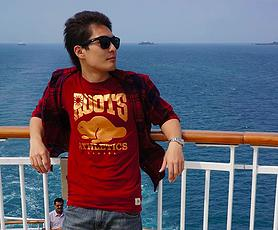
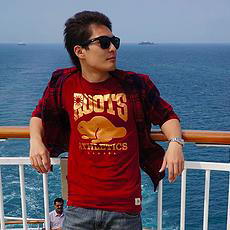
修正圖片大小
將每個圖片修正成正方形

diff --git a/Dep_intro.html b/Dep_intro.html
@@ -58,7 +58,7 @@
 .pre_box IMG{
 	background:white;
 	height:200px;
-	width:auto;
+	width:200px;
 	padding:5px;
 	border:1px solid gray;
 	box-shadow:1px 1px 1px gray;
@@ -66,7 +66,7 @@
 .pre_3box IMG{
 	background:white;
 	height:200px;
-	width:auto;
+	width:200px;
 	padding:5px;
 	border:1px solid gray;
 	box-shadow:1px 1px 1px gray;
